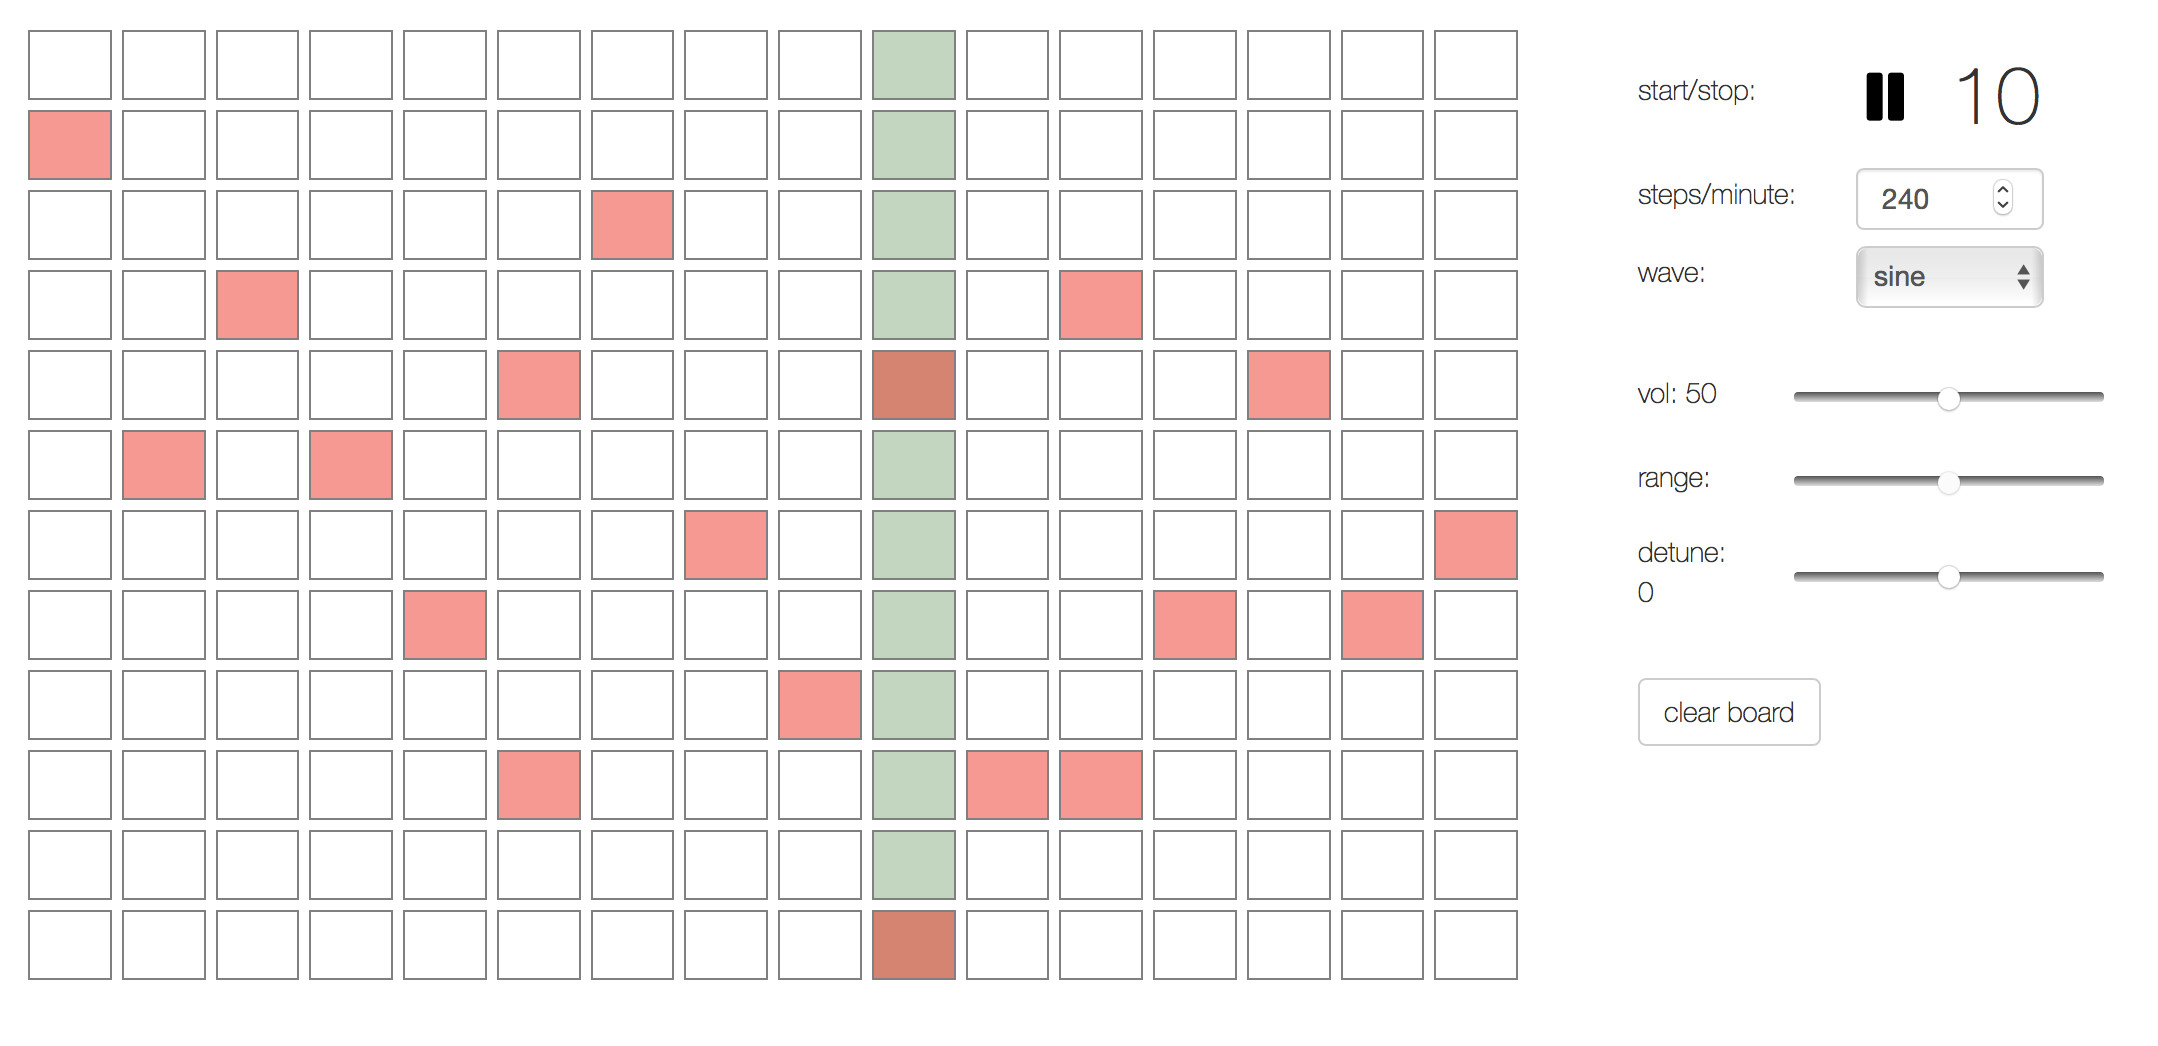
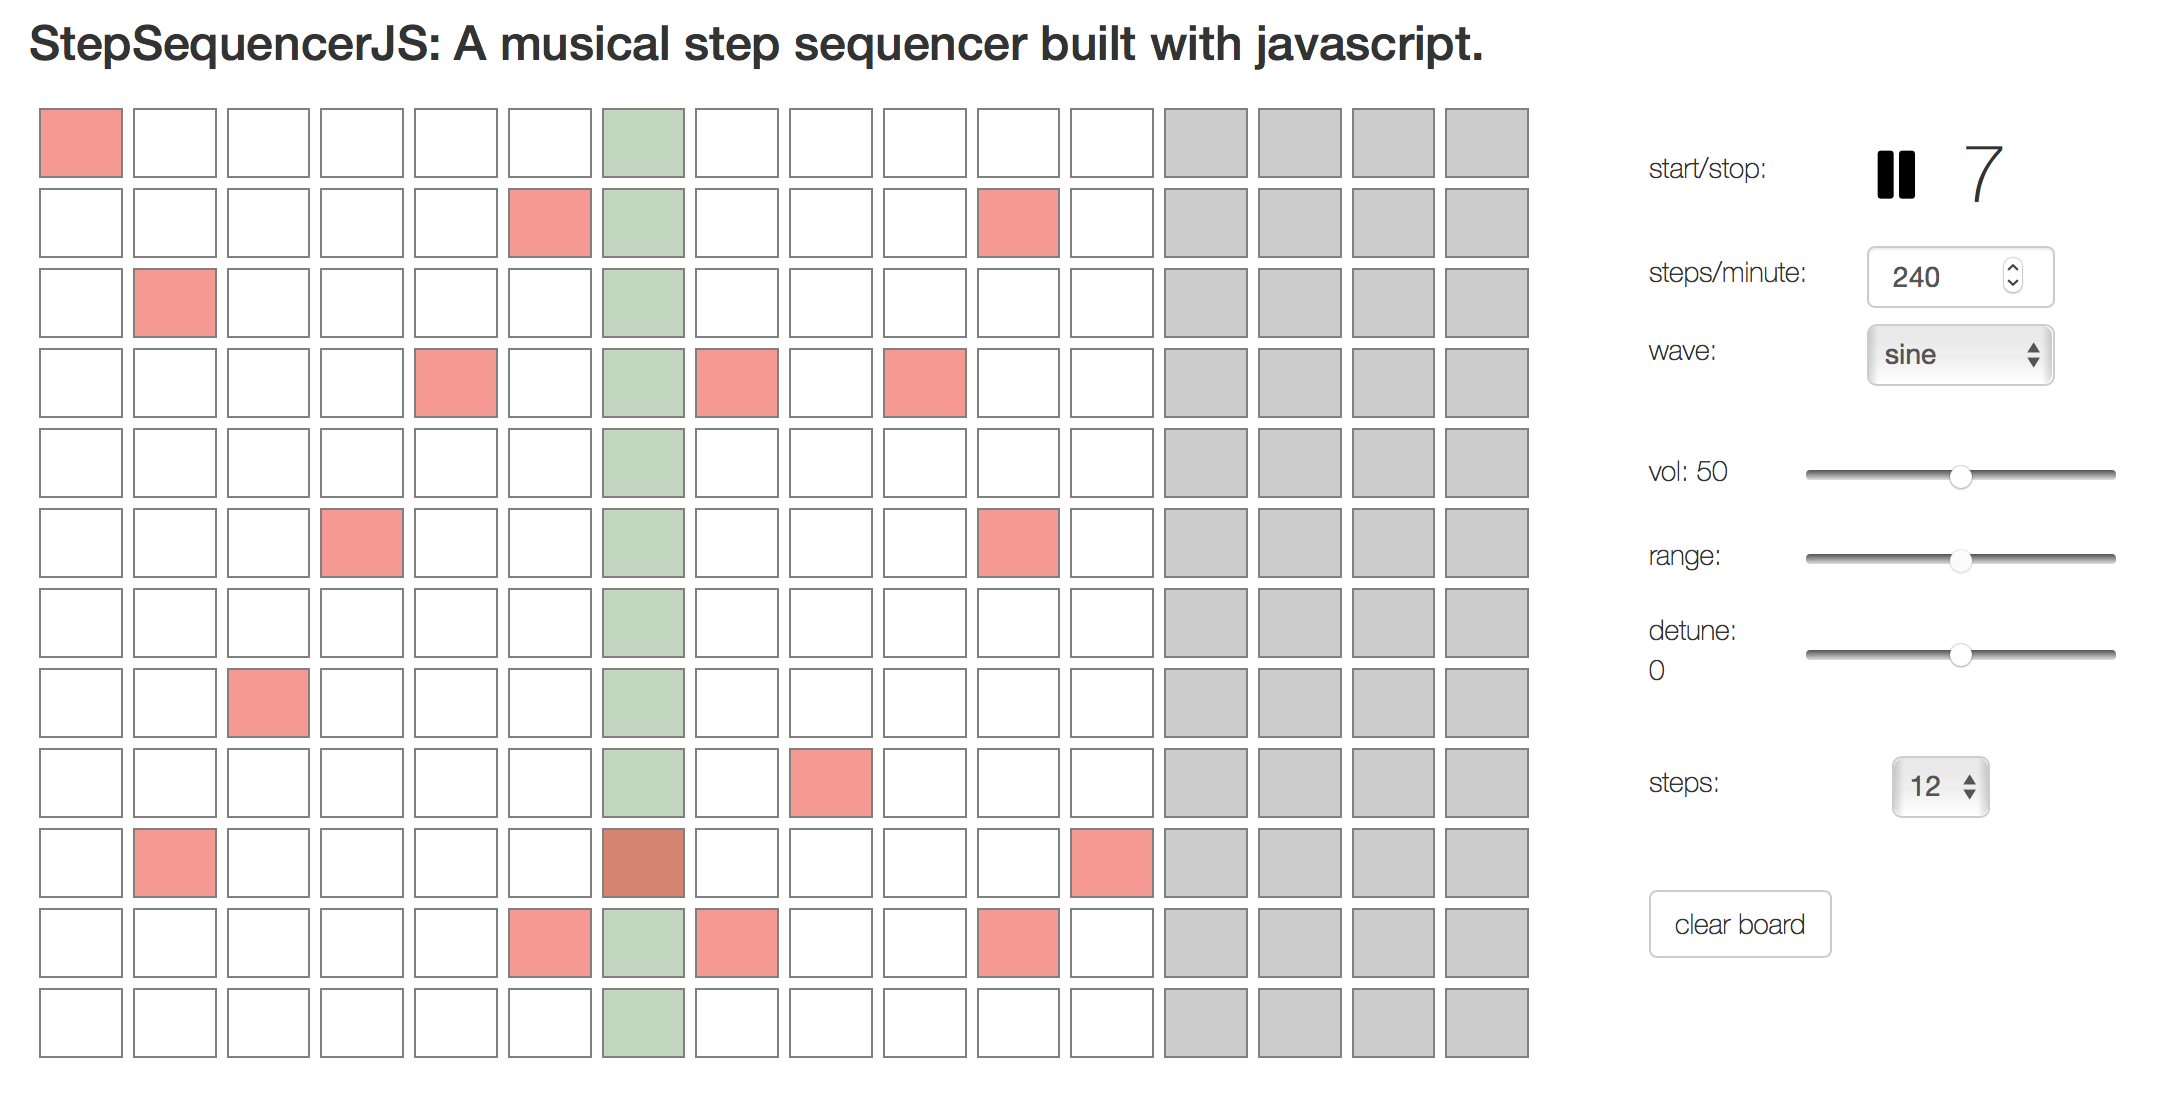
add step-change feature

diff --git a/js/sequencer.js b/js/sequencer.js
@@ -1,10 +1,12 @@
 
-function Sequencer(tempo, wave, vol, detune) {
+function Sequencer(tempo, wave, vol, detune, steps) {
   
   this.interval_val = 60000 / tempo;
   this.wave = wave;
   this.vol = vol;
   this.detune = detune;
+  this.steps = steps;
+  this.deactivateSteps();
   this.isPaused = true;
   this.oscillators = [];
   this.oscillators['current'] = [];
@@ -32,9 +34,7 @@ Sequencer.prototype.getTempo = function() {
 
 Sequencer.prototype.setTempo = function(bpm) {
   this.interval_val = 60000 / bpm;
-  var that = this;
-  clearInterval(this.interval);
-  this.interval = setInterval(function() {sequenceInterval(that)}, this.interval_val);
+  this.resetInterval();
 }
 
 Sequencer.prototype.setWave = function(wave) {
@@ -68,9 +68,67 @@ Sequencer.prototype.clearBoard = function() {
       boxes[i].classList.remove('selected');
       boxes[i].classList.add('unselected');
     }
-	}
+  }
   
 }
+
+Sequencer.prototype.resetInterval = function() {
+  var that = this;
+  clearInterval(this.interval);
+  this.interval = setInterval(function() {sequenceInterval(that)}, this.interval_val);
+}
+
+Sequencer.prototype.getAllSteps = function() {
+  return document.getElementById('controller').childNodes[0].childNodes;
+}
+
+Sequencer.prototype.getActiveStep = function() {
+  var stepsList = this.getAllSteps();
+  var i = 0;
+  for (i=0; i < stepsList.length; i++) {
+    if (stepsList[i].classList.contains('active-step')) {
+      var stepclass = stepsList[i].classList[1];
+      var step = stepclass.split('-')[1];
+      return step;
+    }
+  }
+}
+
+Sequencer.prototype.setSteps = function(steps) {
+  this.steps = steps;
+  this.deactivateSteps();
+  this.clearActiveStep();
+  this.i = 0;
+  this.resetInterval();
+}
+
+Sequencer.prototype.clearActiveStep = function() {
+  var stepsList = this.getAllSteps();
+  var i = 0;
+  for (i=0; i < stepsList.length; i++) {
+    if (stepsList[i].classList.contains('active-step'))
+      stepsList[i].classList.remove('active-step');
+  }
+}
+
+Sequencer.prototype.deactivateSteps = function() {
+  var stepsList = this.getAllSteps(); 
+  var i;
+  for (i=0; i < stepsList.length; i++) {
+    var stepclass = stepsList[i].classList[1];    
+    var step = stepclass.split('-')[1];
+    if (step > (this.steps - 1)) {
+      var btn = stepsList[i].childNodes[0].childNodes[0];
+      btn.classList.add('disabled-block');
+    }
+    else if (step < (this.steps)) {
+      var btn = stepsList[i].childNodes[0].childNodes[0];
+      if (btn.classList.contains('disabled-block'))
+        btn.classList.remove('disabled-block');
+    } 
+  }
+}
+
 
 function sequenceInterval(seq) {
     var j;
@@ -92,7 +150,7 @@ function sequenceInterval(seq) {
       
       // now remove from last (inactive) step   
       if (seq.i > 0) { seq.last_step = 'step-' + (seq.i-1); }
-      else { seq.last_step = 'step-' + (15); }
+      else { seq.last_step = 'step-' + (seq.steps - 1); }
     
       seq.last_col = document.getElementsByClassName(seq.last_step);
       for (j = 0; j < seq.last_col.length; j++) {
@@ -132,7 +190,7 @@ function sequenceInterval(seq) {
       seq.oscillators['current'] = [];
       
       seq.i++;
-      if (seq.i == 16) seq.i = 0;
+      if (seq.i == seq.steps) seq.i = 0;
     }
     
 }

diff --git a/js/controller.js b/js/controller.js
@@ -4,16 +4,18 @@ app.controller('mainController', function($scope) {
    
   var sequencer; 
   $scope.waves = ['sawtooth', 'sine', 'triangle', 'square'];
+  $scope.steps = ['16', '14', '12', '10'];
   $scope.appTitle = "";
   $scope.appSubTitle = "StepSequencerJS: A musical step sequencer built with javascript.";
  
   $scope.wave = 'sine';
+  $scope.step = $scope.steps[0];
   $scope.tempo = 240;     
   $scope.vol = 0.5;
   $scope.displayVol = Math.round($scope.vol*100);
   $scope.detune = 0;
   $scope.displayDetune = $scope.detune;
-  sequencer = new Sequencer($scope.tempo, $scope.wave, $scope.vol, $scope.detune);
+  sequencer = new Sequencer($scope.tempo, $scope.wave, $scope.vol, $scope.detune, $scope.step);
   
   $scope.startStopSequencer = function() {
     var state = angular.element(event.target);
@@ -50,6 +52,10 @@ app.controller('mainController', function($scope) {
     sequencer.setDetune($scope.detune);
   }
   
+  $scope.setSteps = function() {
+    sequencer.setSteps($scope.step);
+  }
+
   $scope.clearBoard = function() {
     sequencer.clearBoard();
   }

diff --git a/index.html b/index.html
@@ -60,9 +60,18 @@
             <div class='control-box col-md-12'>
               <table>
                 <tr>
+                  <td><label>steps: </label></td>
+                  <td>
+                    <select class='form-control' ng-model="step" ng-change="setSteps()">
+                      <option ng-repeat="step in steps" value="{{ step }}">{{ step }}</option>
+                    </select>
+                  </td>
+                </tr>
+                <tr><td><div>&nbsp;</div></td></tr>
+                <tr>
                   <td><button class='btn btn-default' ng-click="clearBoard()">clear board</button></td>
                   <td></td>
-               </tr>
+                </tr>
              </table>
             </div>
           </div>

diff --git a/js/board.js b/js/board.js
@@ -23,12 +23,14 @@ for (var i = 0; i < buttons.length; i++) {
   
   buttons[i].addEventListener('click', function() {
     var div = this.childNodes[0];
-    if (div.classList.contains('unselected')) {
-      div.classList.remove('unselected');
-      div.classList.add('selected');
-    } else {
-      div.classList.remove('selected');
-      div.classList.add('unselected');
+    if (!div.classList.contains('disabled-block')) {
+      if (div.classList.contains('unselected')) {
+        div.classList.remove('unselected');
+        div.classList.add('selected');
+      } else {
+        div.classList.remove('selected');
+        div.classList.add('unselected');
+      }
     }
   });
 

diff --git a/css/main.css b/css/main.css
@@ -61,3 +61,7 @@ table td {
 .selected {
   background-color: rgba(255, 0, 0, .5);
 }
+
+.disabled-block {
+  background-color: rgba(0, 0, 0, .2);
+}
